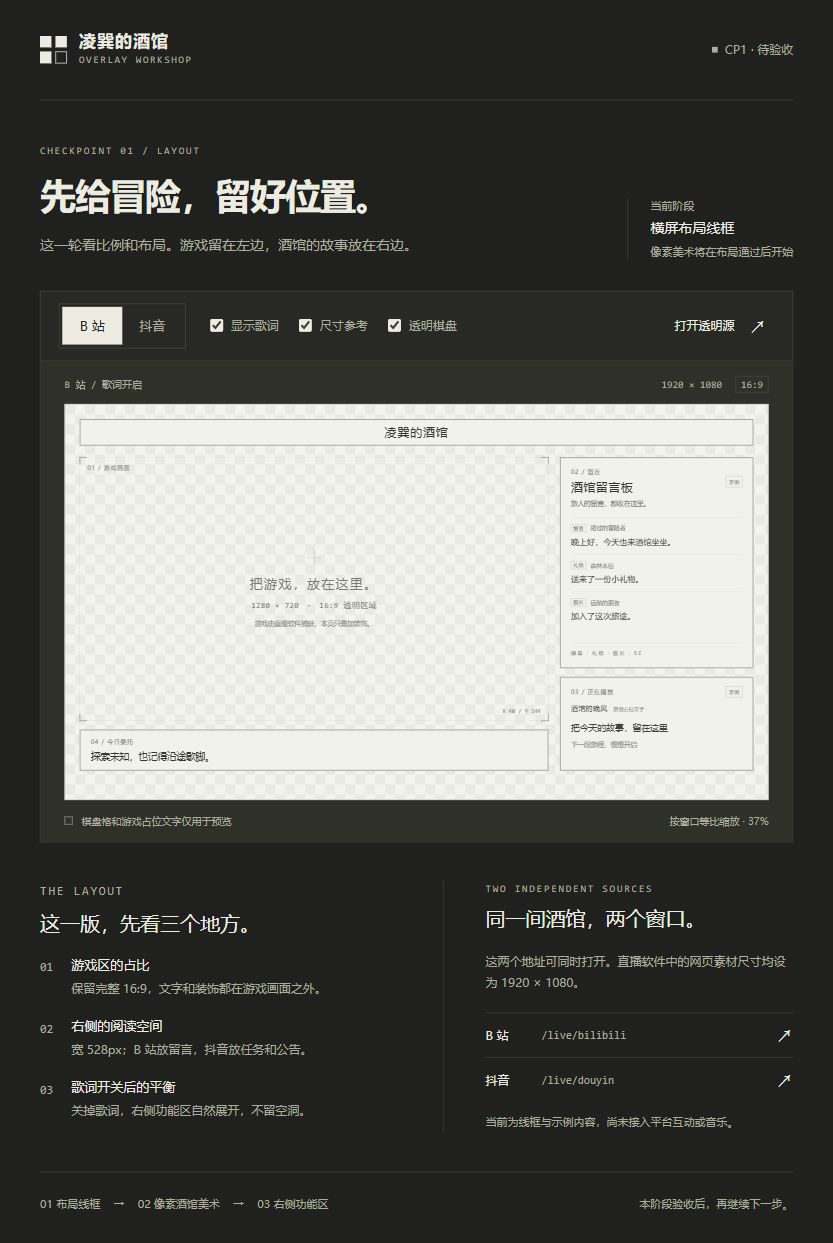
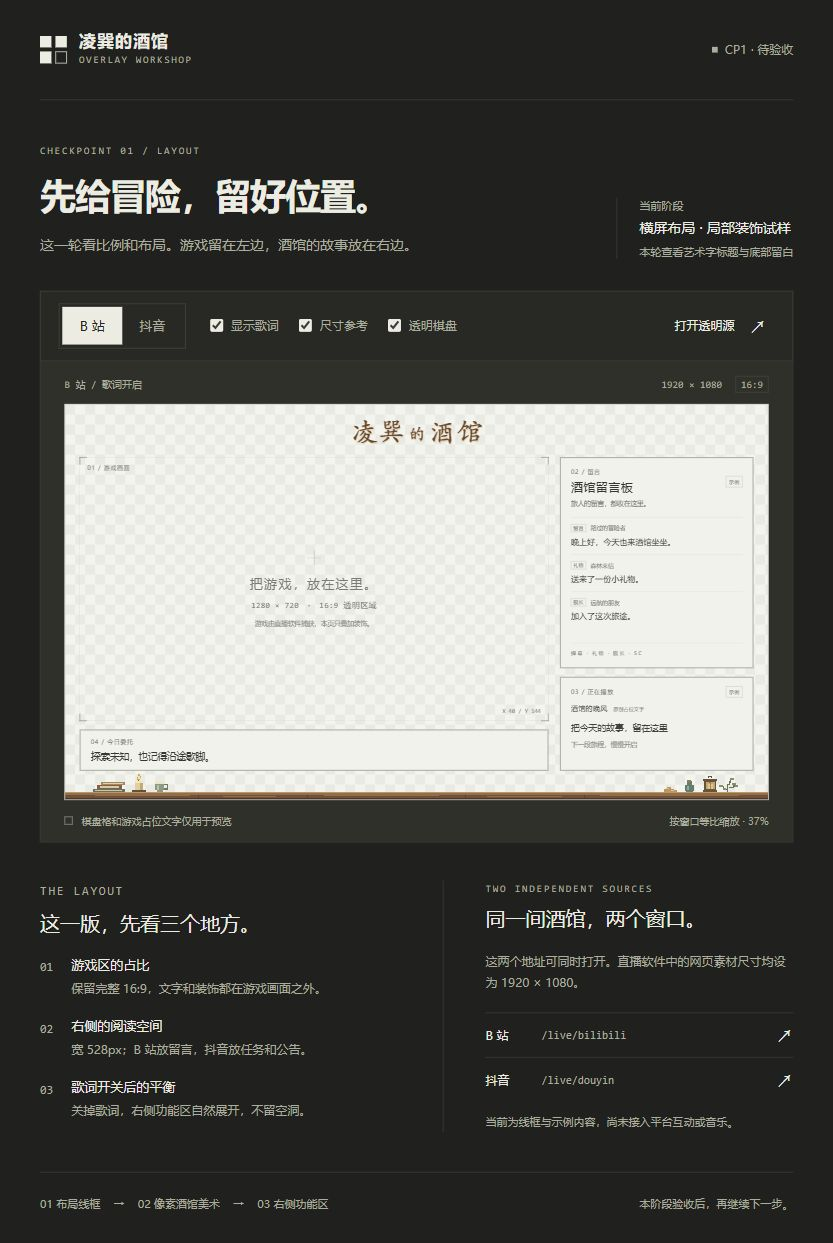
checkpoint/01-layout: add frameless tavern lettering and bottom scenery

diff --git a/src/Overlay.tsx b/src/Overlay.tsx
@@ -66,11 +66,61 @@ function Lyrics() {
   )
 }
 
+function TavernScenery() {
+  return (
+    <svg className="tavern-scenery" viewBox="0 0 1920 72" fill="none" shapeRendering="crispEdges" aria-hidden="true" focusable="false">
+      {/* A low wooden counter and two small still lifes stay below every panel. */}
+      <path d="M0 50H1920V72H0Z" fill="#705039" />
+      <path d="M0 50H1920V54H0Z" fill="#bc9765" />
+      <path d="M0 54H1920V58H0Z" fill="#936e48" />
+      <path d="M0 68H1920V72H0Z" fill="#49382c" />
+      <path d="M82 60H340M430 63H576M708 60H1020M1152 63H1358M1460 60H1840" stroke="#a17a51" strokeWidth="2" />
+      <path d="M364 58V68M662 58V68M1094 58V68M1420 58V68" stroke="#503c2b" strokeWidth="2" />
+
+      <g transform="translate(76 0)">
+        <path d="M0 42H88V50H0Z" fill="#627263" />
+        <path d="M5 44H78V47H5Z" fill="#d3c4a0" />
+        <path d="M12 32H78V42H12Z" fill="#8a5d45" />
+        <path d="M18 34H72V39H18Z" fill="#d9c9a4" />
+        <path d="M22 24H88V32H22Z" fill="#a18a5c" />
+        <path d="M27 26H81V29H27Z" fill="#e0d1ac" />
+        <path d="M106 44H144V50H106Z" fill="#63503b" />
+        <path d="M114 21H136V44H114Z" fill="#e2cf9d" />
+        <path d="M114 21H136V25H114Z" fill="#f2e5bf" />
+        <path d="M128 25H136V44H128Z" fill="#c2a876" />
+        <path d="M124 13H127V21H124Z" fill="#775338" />
+        <path d="M124 2H128V6H132V13H128V17H120V9H124Z" fill="#dba45d" />
+        <path d="M124 8H128V14H124Z" fill="#f6e2a2" />
+        <path d="M170 25H194V46H190V50H174V46H170Z" fill="#8e9a82" />
+        <path d="M194 30H204V42H194" stroke="#6f7b64" strokeWidth="4" />
+        <path d="M170 23H194V28H170Z" fill="#eee3c8" />
+        <path d="M175 30H180V44H175Z" fill="#bdc4a6" />
+      </g>
+
+      <g transform="translate(1636 0)">
+        <path d="M0 42H9V38H18V42H27V46H36V50H0Z" fill="#b9995e" />
+        <path d="M5 40H14V43H5ZM18 44H27V47H18Z" fill="#dec58e" />
+        <path d="M62 21H76V31H82V47H78V50H60V47H56V31H62Z" fill="#637e70" />
+        <path d="M63 17H75V23H63Z" fill="#9e7950" />
+        <path d="M62 33H69V45H62Z" fill="#93ad96" />
+        <path d="M110 19H142V47H110Z" fill="#68533d" />
+        <path d="M114 23H138V43H114Z" fill="#c6a86e" />
+        <path d="M119 28H133V43H119Z" fill="#e0c790" />
+        <path d="M122 13V8H130V13M107 18H145M107 48H145" stroke="#68533d" strokeWidth="4" />
+        <path d="M124 24H128V44" stroke="#866d46" strokeWidth="2" />
+        <path d="M174 50V31H178V23H182V14M178 38H190V34H198M174 44H163V36H155" stroke="#697359" strokeWidth="3" />
+        <path d="M180 12H190V18H180ZM185 26H196V32H185ZM193 32H203V38H193ZM151 31H162V37H151ZM160 40H170V46H160Z" fill="#86916c" />
+      </g>
+    </svg>
+  )
+}
+
 export function Overlay({ platform, lyrics = true }: { platform: Platform; lyrics?: boolean }) {
   return (
     <main className="overlay" data-platform={platform} data-lyrics={lyrics ? 'on' : 'off'} aria-label={`${platformNames[platform]}横屏直播装饰`}>
+      <TavernScenery />
       <header className="stream-header">
-        <strong className="tavern-name">凌巽的酒馆</strong>
+        <strong className="tavern-name" aria-label="凌巽的酒馆">{Array.from('凌巽的酒馆').map(character => <span key={character} aria-hidden="true">{character}</span>)}</strong>
       </header>
       <aside className={`side-column ${lyrics ? '' : 'without-lyrics'}`}>
         {platform === 'bilibili' ? <BilibiliBoard lyrics={lyrics} /> : <DouyinBoard lyrics={lyrics} />}

diff --git a/src/styles.css b/src/styles.css
@@ -92,8 +92,14 @@ button, a, input { transition: background-color 140ms ease, color 140ms ease; }
 
 /* Always 1920 × 1080, regardless of the embedding viewport. */
 .overlay { position: relative; width: 1920px; height: 1080px; overflow: hidden; color: #353632; font-family: "Microsoft YaHei", "PingFang SC", sans-serif; --panel: #f2f2ed; --panel-line: #95978d; }
-.stream-header { position: absolute; left: 40px; top: 40px; width: 1840px; height: 72px; background: var(--panel); border: 2px solid var(--panel-line); display: flex; align-items: center; justify-content: center; padding: 0 24px; }
-.tavern-name { font-weight: 500; font-size: 32px; letter-spacing: 3px; white-space: nowrap; }
+.stream-header { position: absolute; left: 40px; top: 40px; width: 1840px; height: 72px; display: flex; align-items: center; justify-content: center; }
+.tavern-name { display: inline-flex; align-items: baseline; gap: 4px; color: #65442c; font-family: "STKaiti", "KaiTi", "Kaiti SC", serif; font-size: 72px; line-height: 1; font-weight: 700; white-space: nowrap; -webkit-text-stroke: .6px #503422; text-shadow: 0 2px 0 #efd9ac, 2px 4px 0 #694a2b26; }
+.tavern-name > span { display: inline-block; transform: rotate(-3deg); }
+.tavern-name > span:nth-child(2) { transform: translateY(-3px) rotate(2deg); }
+.tavern-name > span:nth-child(3) { font-size: .64em; margin: 0 6px; transform: translateY(-2px) rotate(-5deg); }
+.tavern-name > span:nth-child(4) { transform: translateY(1px) rotate(-2deg); }
+.tavern-name > span:nth-child(5) { transform: translateY(-2px) rotate(3deg); }
+.tavern-scenery { position: absolute; left: 0; top: 1008px; width: 1920px; height: 72px; pointer-events: none; }
 .side-column { position: absolute; left: 1352px; top: 144px; width: 528px; height: 856px; display: grid; grid-template-rows: minmax(0, 576px) 256px; gap: 24px; }
 .side-column.without-lyrics { grid-template-rows: minmax(0, 1fr); }
 .side-board, .lyrics-board { background: var(--panel); border: 2px solid var(--panel-line); min-height: 0; overflow: hidden; }

diff --git a/src/main.tsx b/src/main.tsx
@@ -42,7 +42,7 @@ function Preview() {
 
       <div className="intro">
         <div><p className="eyebrow">CHECKPOINT 01 / LAYOUT</p><h1>先给冒险，留好位置。</h1><p className="intro-description">这一轮看比例和布局。游戏留在左边，酒馆的故事放在右边。</p></div>
-        <div className="phase-note"><span>当前阶段</span><strong>横屏布局线框</strong><small>像素美术将在布局通过后开始</small></div>
+        <div className="phase-note"><span>当前阶段</span><strong>横屏布局 · 局部装饰试样</strong><small>本轮查看艺术字标题与底部留白</small></div>
       </div>
 
       <section className="review-workspace" aria-label="直播布局预览">

diff --git a/PROJECT_SPEC.md b/PROJECT_SPEC.md
@@ -15,15 +15,15 @@
 - B 站未来接入弹幕、礼物、舰长、SC；抖音首版使用任务卡、公告，不接入非官方弹幕采集。
 - 网易云当前歌曲和同步歌词作为未来共享服务；歌词可全局或按平台显示/隐藏。
 - 歌词关闭时，右侧主要功能区扩展使用余下空间。
-- 标题栏只显示居中的“凌巽的酒馆”五个字，不显示独立图标、直播主题或平台信息。
-- 不设置底部英文署名/状态行，也不设置主播信息或头像预留区；游戏下方只保留今日委托。
+- 顶部仅显示居中的“凌巽的酒馆”五个艺术字，无标题框或底板，不显示独立图标、直播主题或平台信息。
+- 不设置底部英文署名/状态行，也不设置主播信息或头像预留区；游戏下方保留今日委托，画布底边以酒馆摆件和木台填补留白。
 - 未来需有断线恢复；一端事件或连接失败不得重置另一端。
 - 抖音当前安装版本对本地网页素材的支持，以及双客户端捕获/编码/音频效果，须在后续集成阶段实测。
 
 ## 本次交付：CP0 + CP1
 
 只建立最小 React + TypeScript + Vite 项目、协作文件、两个透明源和独立布局验收页。
-线框只评估空间、比例、文字可读性和歌词开关后的布局。灰度为占位设计，不代表最终酒馆美术。
+线框评估空间、比例、文字可读性和歌词开关后的布局。按用户追加要求，顶部艺术字和底部装饰做局部风格试样，其余灰度面板仍为占位设计，不代表最终酒馆美术。
 验收页的控件只影响当前预览，不是未来统一后台，不同步真实源。
 
 ## CP1 初始布局（可在本阶段调整）
@@ -32,14 +32,15 @@
 
 | 区域 | x / y | 宽 × 高 | 说明 |
 | --- | --- | --- | --- |
-| 标题栏 | 40 / 40 | 1840 × 72 | 仅居中显示“凌巽的酒馆” |
+| 无框标题区 | 40 / 40 | 1840 × 72 | 仅居中显示“凌巽的酒馆”艺术字；背景透明 |
 | 游戏区 | 40 / 144 | 1280 × 720 | 精确 16:9；真实网页源此区域无任何内容或背景 |
 | 右侧栏 | 1352 / 144 | 528 × 856 | B 站留言板 / 抖音任务与公告 |
 | 右上主面板（歌词开） | 1352 / 144 | 528 × 576 | 示例内容用于检查排布 |
 | 歌词面板 | 1352 / 744 | 528 × 256 | 仅原创示例文字，不播放音乐 |
 | 今日委托 | 40 / 888 | 1280 × 112 | 不覆盖游戏，不含主播信息占位 |
+| 酒馆底边装饰 | 0 / 1008 | 1920 × 72 | 木台、书本、烛灯、杯子、藤叶；不添加文字 |
 
-游戏与侧栏之间留 32px，纵向模块间留 24px。外边距最少 32px。
+游戏与侧栏之间留 32px，纵向模块间留 24px。内容区外边距最少 32px，底边装饰延伸至画布边缘。
 真实源固定 1920 × 1080，不随浏览器大小重排；验收画布只做整体等比缩放。
 
 ## 页面与技术边界
@@ -53,9 +54,9 @@
 | `/admin` | CP5 预留地址，目前明确显示未开发，不提供假后台 |
 
 当前无数据持久化、平台联网、服务端同步、音频捕获或真实歌词播放。
-无外部字体、图片或角色依赖。
+无外部字体、图片或角色依赖。艺术字优先使用本机华文楷体/楷体，未安装时回退到衬线字体；底部装饰为内联 SVG。
 
 ## 后续阶段
 
 完整顺序与验收门槛见 `CHECKPOINTS.md`。
-CP1 通过后才处理最终配色、像素边框、材质和轻量装饰。右侧功能细节、其他场景、后台及真实接口分别在独立检查点验收。
+本次只按追加要求实现标题与底边的局部试样。CP1 通过后才处理整体配色、像素边框及材质。右侧功能细节、其他场景、后台及真实接口分别在独立检查点验收。

diff --git a/README.md b/README.md
@@ -1,6 +1,6 @@
 # 凌巽的酒馆 · 直播间装修
 
-当前进度：**CP0 + CP1 待验收**。交付横屏灰度布局线框，最终像素酒馆美术尚未开始。
+当前进度：**CP0 + CP1 待验收**。交付横屏布局线框与用户追加的标题/底边装饰试样，整体像素酒馆美术尚未开始。
 
 ## 打开预览
 
@@ -62,6 +62,7 @@ npm run preview
 `npm run preview` 用于检查构建产物，与开发服务使用相同端口，需先停止开发服务。
 依赖由 `package-lock.json` 锁定；运行不依赖外部字体或图片。
 
-标题只显示“凌巽的酒馆”，不包含英文底部状态行或主播信息占位区。
+标题以无框艺术字显示“凌巽的酒馆”；底边加入木台与酒馆摆件，不包含英文底部状态行或主播信息占位区。
+艺术字使用本机华文楷体/楷体；未安装时回退到衬线字体。底边使用内联 SVG，无外部图片依赖。
 下一步由用户验收游戏区占比、右侧宽度和标题/委托栏位置。
 只有明确通过后，才进入 CP2 像素酒馆美术。

diff --git a/AGENTS.md b/AGENTS.md
@@ -4,7 +4,7 @@
 
 1. 每次只实现当前获准的检查点。完成后提供可打开的预览和验收报告，停在“待验收”。
 2. 只有用户明确表示通过，才能标记“已通过”并开始下一个检查点。修订当前阶段不需要再次申请许可。
-3. 当前授权为 CP0 项目基础 + CP1 横屏布局；CP2 像素风美术及后续功能尚未获准。
+3. 当前授权为 CP0 项目基础 + CP1 横屏布局；用户追加允许无框艺术字标题与底部酒馆装饰试样。CP2 整体像素风美术及后续功能尚未获准。
 4. 明确标注示例数据。不得将线框、示例歌曲、示例互动宣称为真实平台接入。
 5. 固定 1920 × 1080 横屏，保留 16:9 透明游戏区。B 站和抖音网页源独立存在，可同时运行。
 6. 直播网页源不得带入验收页工具栏、棋盘格、游戏占位文字或后台控件。

diff --git a/CHECKPOINTS.md b/CHECKPOINTS.md
@@ -20,7 +20,7 @@
 ## CP1 验收清单
 
 - [ ] 1280 × 720 游戏区是否足够大，左右比例是否合适。
-- [ ] 顶部纯酒馆名、今日委托的位置是否合适（已按反馈移除底部状态行与主播信息）。
+- [ ] 顶部无框艺术字、今日委托、底边酒馆装饰的位置是否合适（已移除底部状态行与主播信息）。
 - [ ] 528px 右栏是否适合实际内容长度。
 - [ ] B 站/抖音两种排布都满意。
 - [ ] 歌词开启/关闭两种空间分配都满意。
